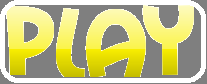
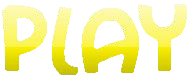
updated the start screen

diff --git a/src/crossy_world/CrossyLabel.java b/src/crossy_world/CrossyLabel.java
@@ -1,0 +1,19 @@
+import greenfoot.*;  // (World, Actor, GreenfootImage, Greenfoot and MouseInfo)
+
+/**
+ * Write a description of class CrossyLabel here.
+ * 
+ * @author (your name) 
+ * @version (a version number or a date)
+ */
+public class CrossyLabel extends Actor
+{
+    /**
+     * Act - do whatever the CrossyLabel wants to do. This method is called whenever
+     * the 'Act' or 'Run' button gets pressed in the environment.
+     */
+    public void act() 
+    {
+        // Add your action code here.
+    }    
+}

diff --git a/src/crossy_world/WorldLabel.java b/src/crossy_world/WorldLabel.java
@@ -1,0 +1,19 @@
+import greenfoot.*;  // (World, Actor, GreenfootImage, Greenfoot and MouseInfo)
+
+/**
+ * Write a description of class WorldLabel here.
+ * 
+ * @author (your name) 
+ * @version (a version number or a date)
+ */
+public class WorldLabel extends Actor
+{
+    /**
+     * Act - do whatever the WorldLabel wants to do. This method is called whenever
+     * the 'Act' or 'Run' button gets pressed in the environment.
+     */
+    public void act() 
+    {
+        // Add your action code here.
+    }    
+}

diff --git a/src/crossy_world/StartScreen.java b/src/crossy_world/StartScreen.java
@@ -56,5 +56,9 @@ public class StartScreen extends World
         QuitButton quitButton = new QuitButton(this);
         addObject(quitButton,883,562);
         quitButton.setLocation(862,551);
+        CrossyLabel crossyLabel = new CrossyLabel();
+        addObject(crossyLabel,597,127);
+        WorldLabel worldLabel = new WorldLabel();
+        addObject(worldLabel,606,319);
     }
 }
